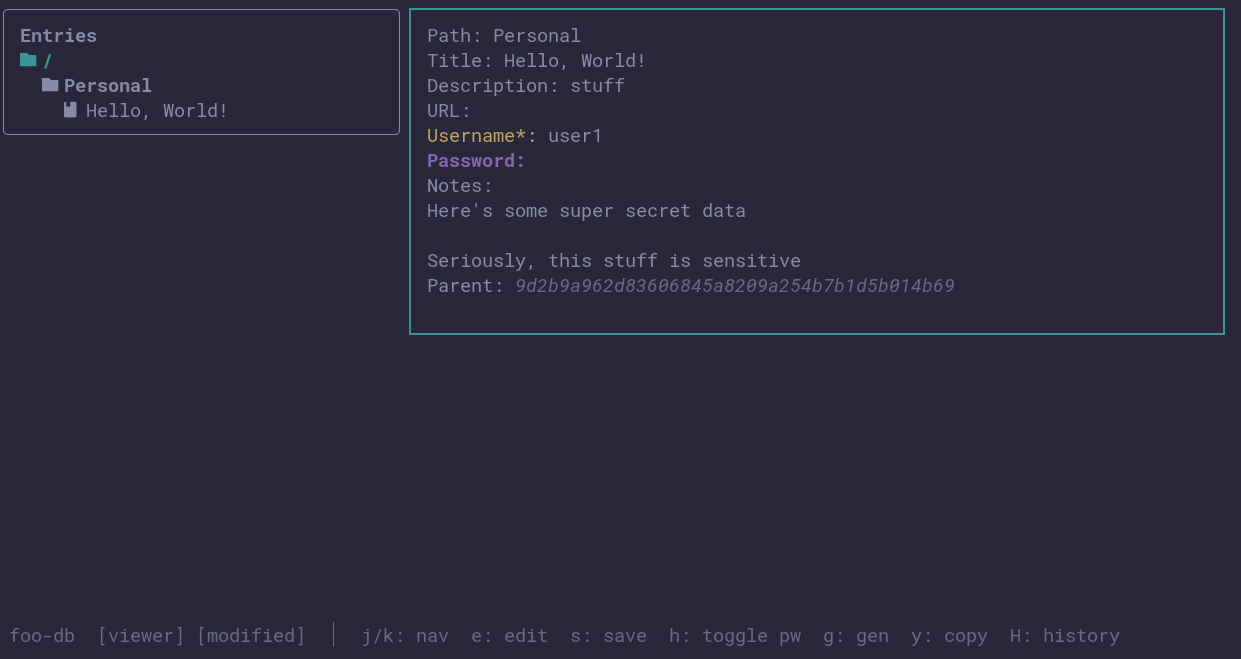
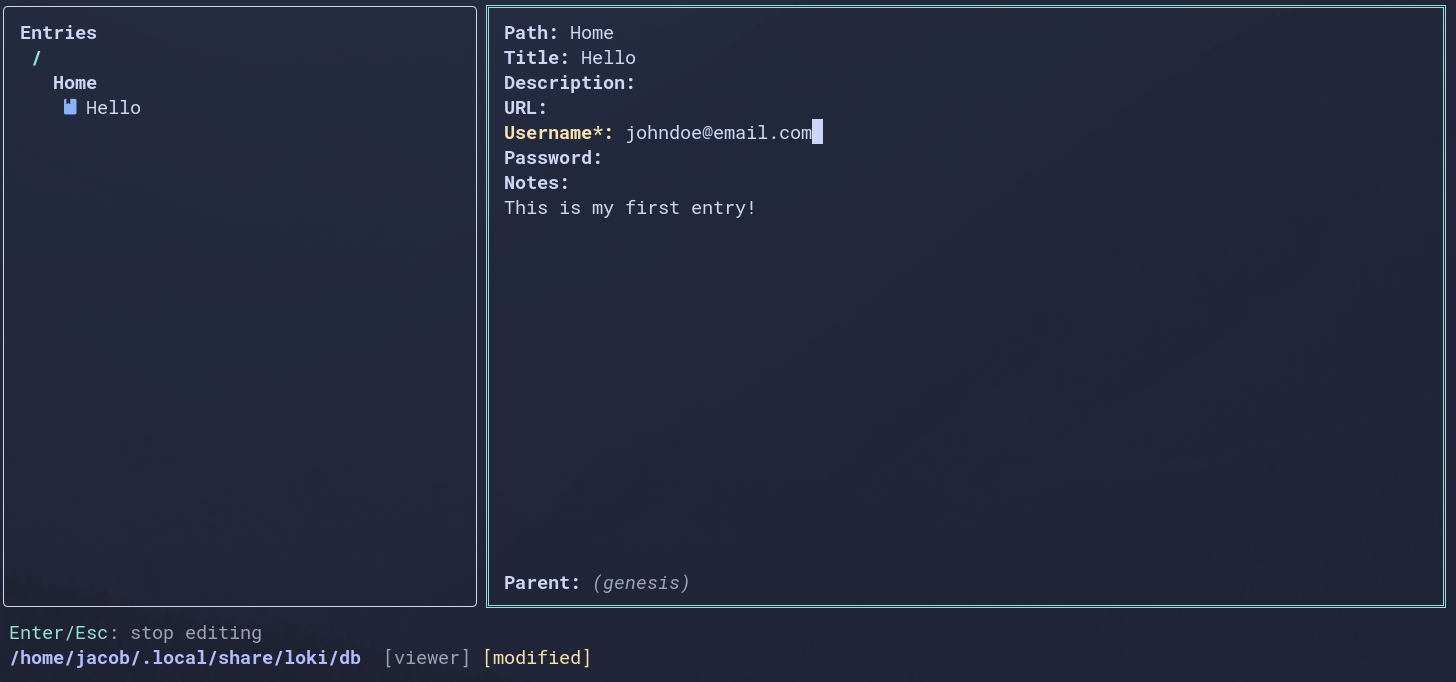
Update README with updated screenshots

diff --git a/README.md b/README.md
@@ -52,11 +52,17 @@ The TUI interface is fairly bare-bones, and was developed using the
 database, add and "move" existing entries, view the complete history of an entry, generate random
 passwords, and copy data to the clipboard for easy logins.
 
+![Create a new database](docs/images/create-new.png)
+
+![Unlock screen](docs/images/unlock.png)
+
 ![Editing an entry](docs/images/edit-entry.png)
 
 ![Generate a password](docs/images/generate-password.png)
 
 ![View an entry's history](docs/images/history-view.png)
+
+![Search for entries](docs/images/search.png)
 
 ## Android Application
 
